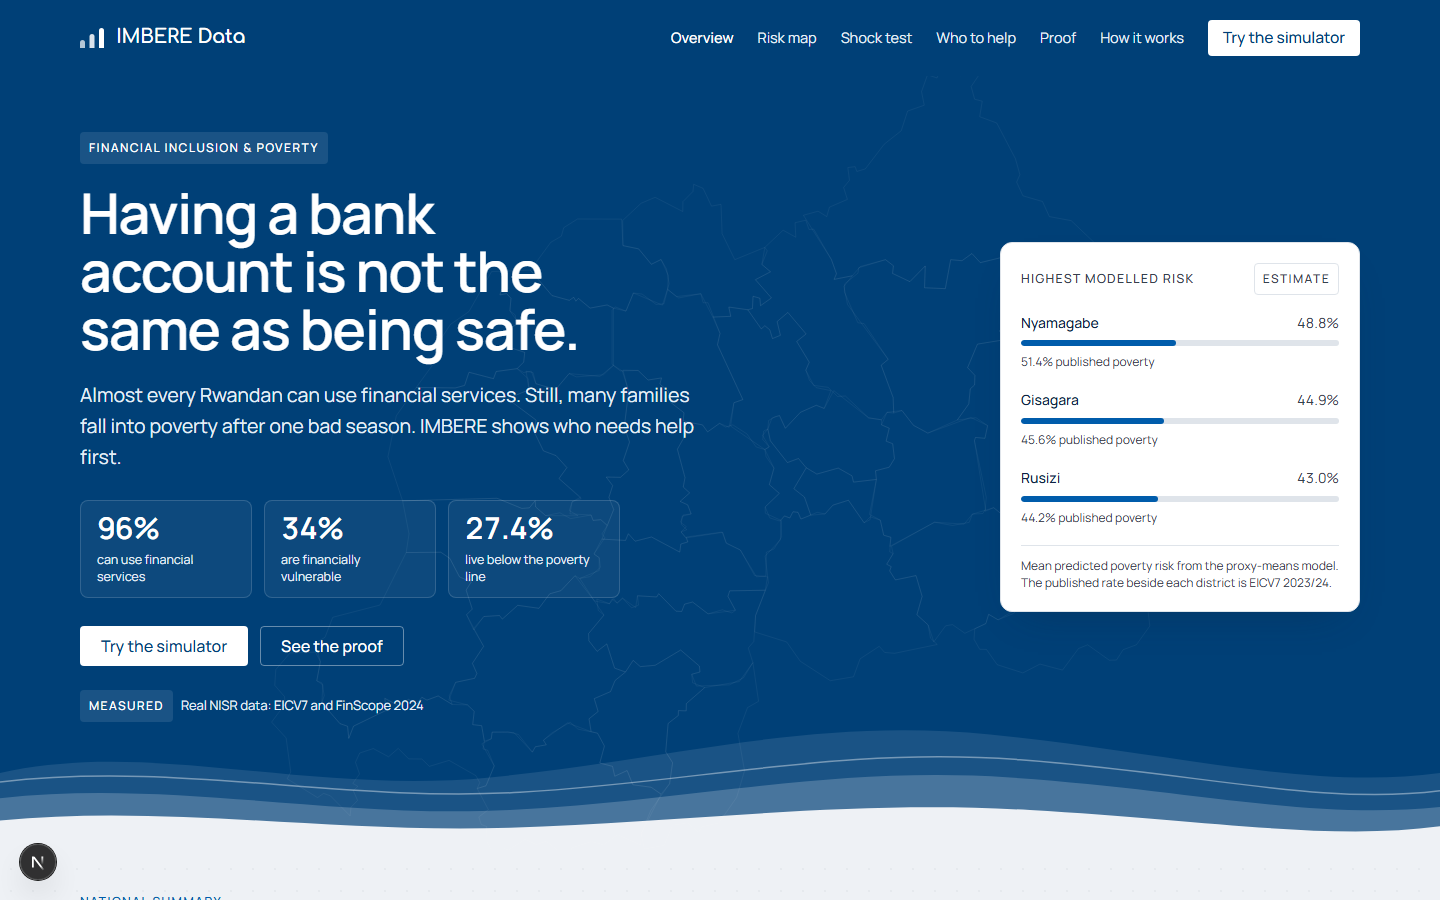
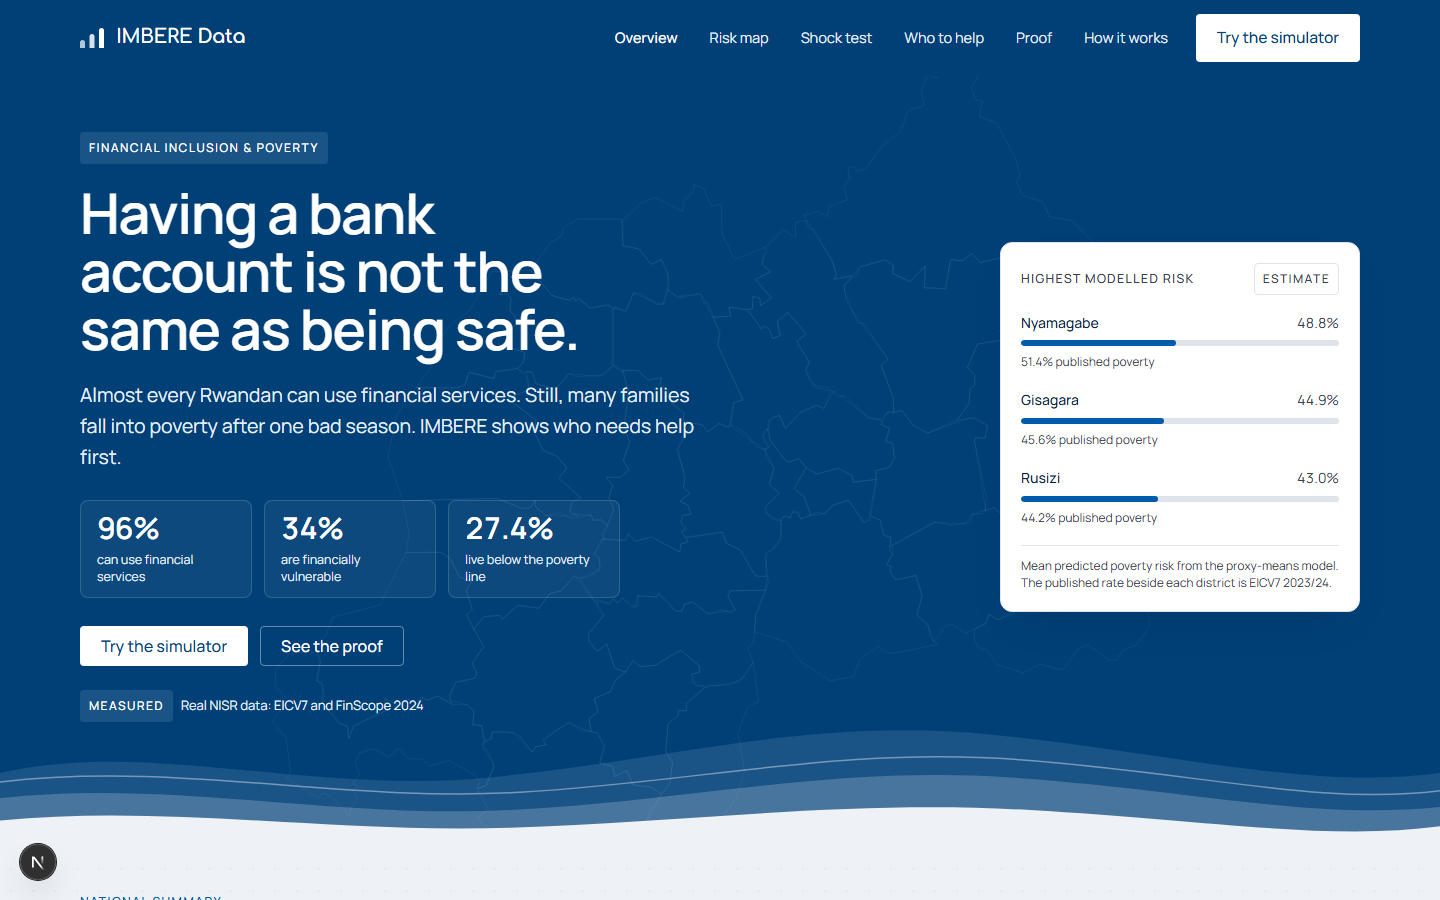
Give the top bar one control height: 48px on the action and the links
- The Try-the-simulator button was 36px in a 76px bar; it is now 48px, and the menu links match it so the two align on one baseline.
- Links centre in the bar instead of stretching; 4px side padding on desktop for a larger hit area.
- Fits at 1024px with no header overflow; the phone strip keeps its 48px row and the bar action stays hidden.
- Recapture the screenshots.

Changed region(s): [[0.4375, 0.0, 0.9375, 0.0933]]

diff --git a/web/components/Nav.tsx b/web/components/Nav.tsx
@@ -30,7 +30,7 @@ export function Nav() {
 
         <nav
           aria-label="Sections"
-          className="flex items-stretch gap-4 overflow-x-auto border-t border-white/10 text-[14.5px] [scrollbar-width:none] sm:ml-auto sm:gap-6 sm:border-t-0"
+          className="flex items-center gap-4 overflow-x-auto border-t border-white/10 text-[14.5px] [scrollbar-width:none] sm:ml-auto sm:gap-6 sm:border-t-0"
         >
           {MENU.items.map((l) => {
             // An in-page anchor ("/#risk-map") is not a page, so it never claims the current
@@ -46,7 +46,7 @@ export function Nav() {
                 href={l.href}
                 aria-label={l.label}
                 aria-current={active ? "page" : undefined}
-                className={`flex items-center whitespace-nowrap py-3.5 transition-colors focus-visible:outline-white sm:py-0 ${
+                className={`flex h-12 items-center whitespace-nowrap transition-colors focus-visible:outline-white sm:px-1 ${
                   active ? "font-medium text-white" : "text-primary-soft hover:text-white"
                 }`}
               >
@@ -58,7 +58,10 @@ export function Nav() {
         </nav>
 
         <div className="hidden items-center sm:flex">
-          <Button asChild className="bg-white text-primary-deep hover:bg-primary-soft">
+          <Button
+            asChild
+            className="h-12 bg-white px-5 text-[15.5px] text-primary-deep hover:bg-primary-soft"
+          >
             <Link href="/simulator">{MENU.cta}</Link>
           </Button>
         </div>
